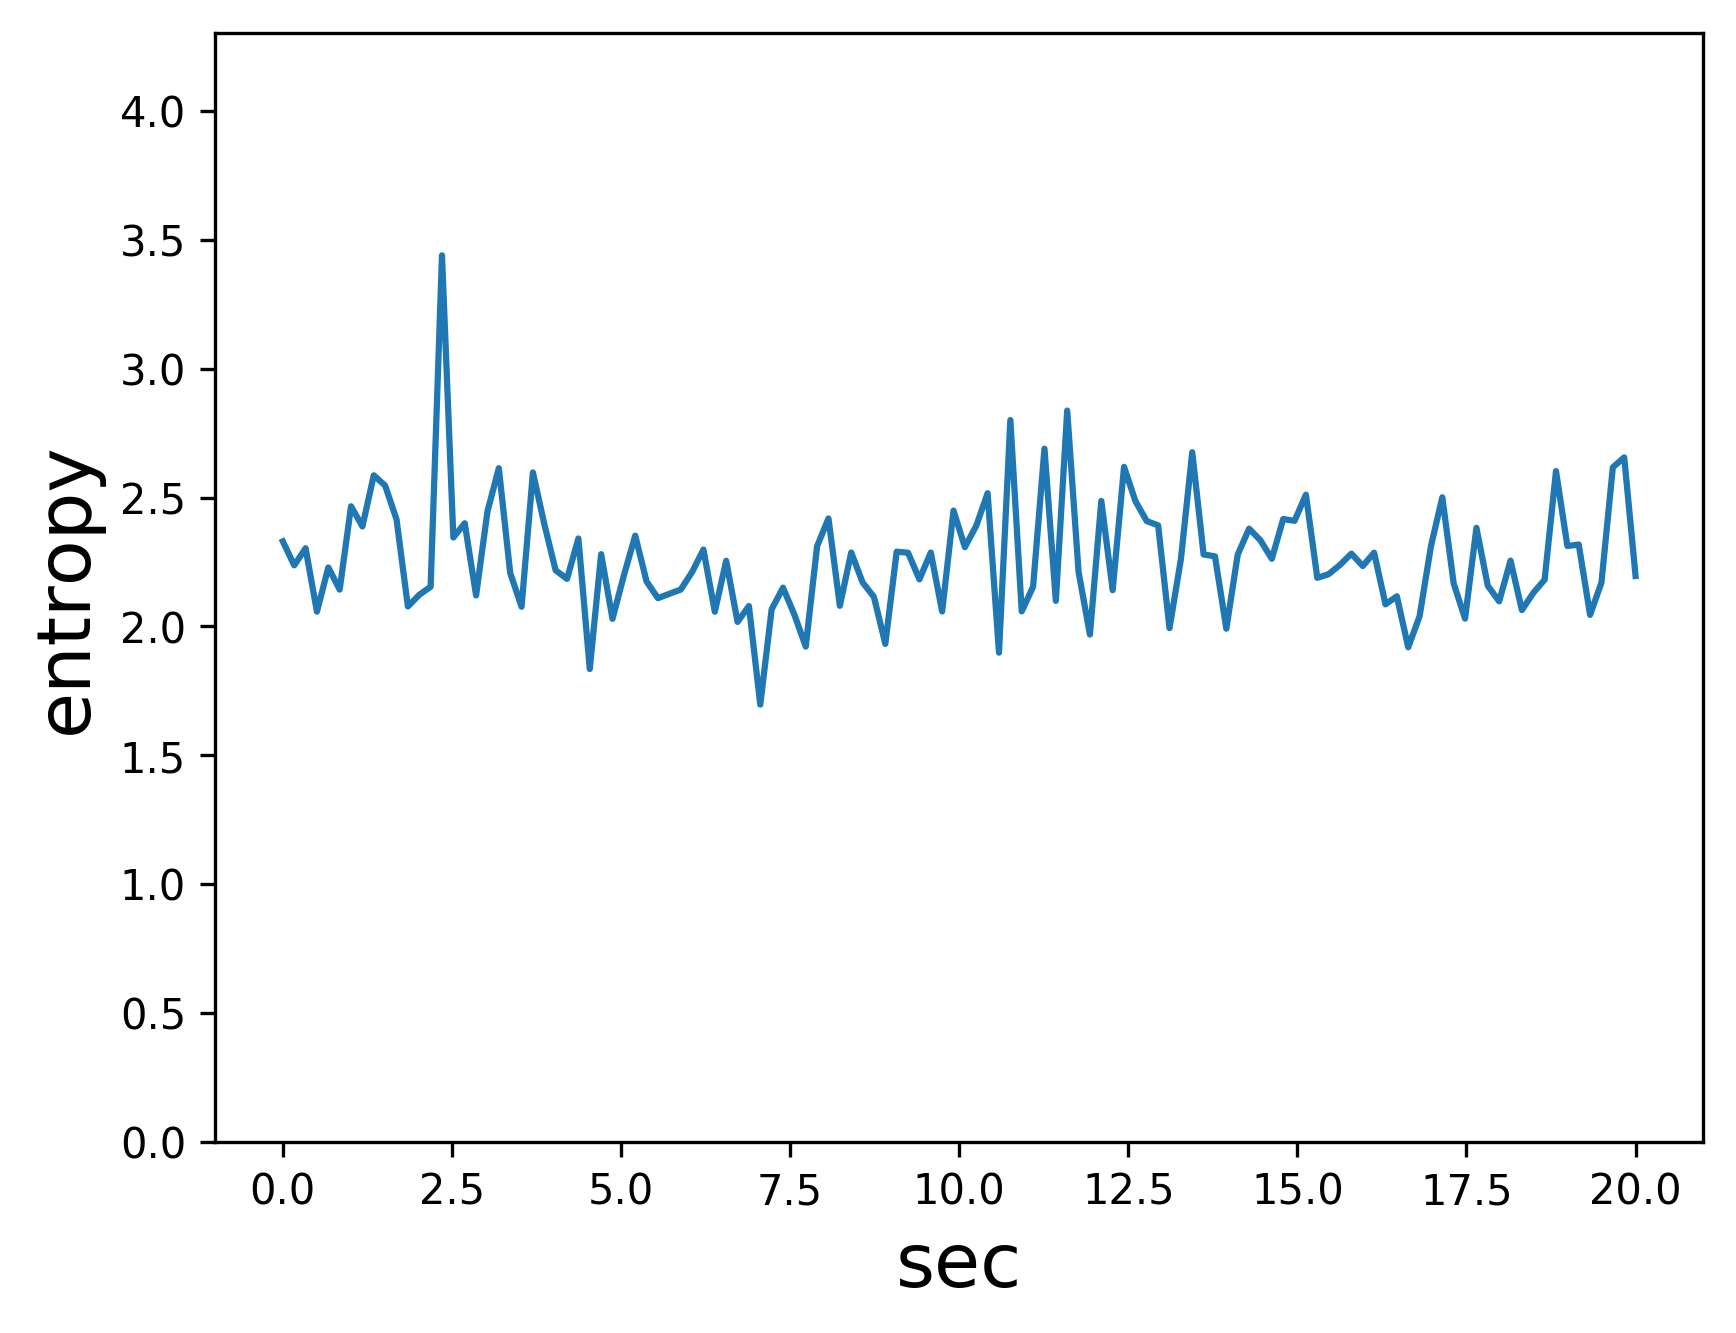
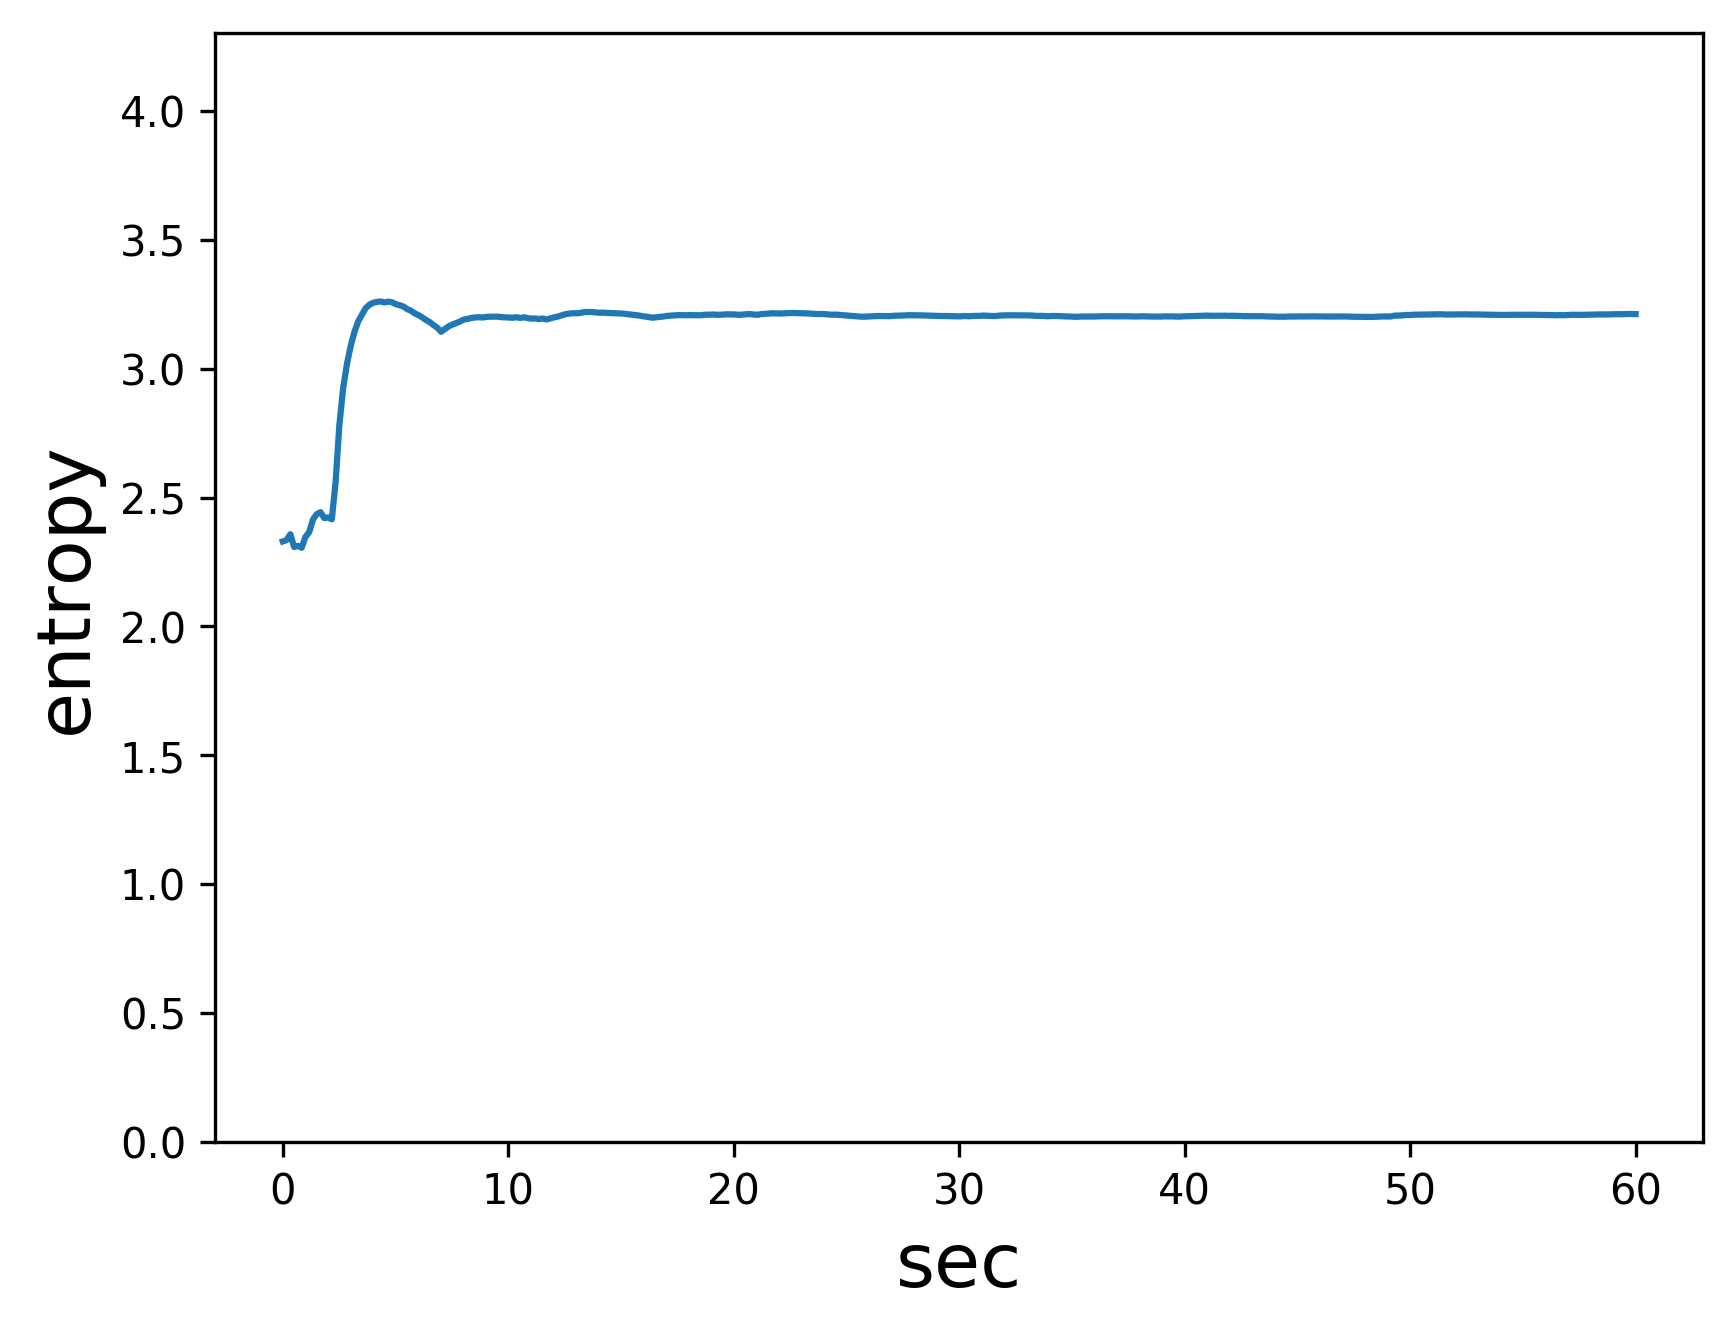
test

diff --git a/kullback_leibler_divergence.py b/kullback_leibler_divergence.py
@@ -109,7 +109,7 @@ def save_2d(data, name, xlabel, ylabel, directory, time):
     plt.clf()
     plt.xlabel(xlabel, fontsize = 18)
     plt.ylabel(ylabel, fontsize = 18)
-    
+    plt.ylim([0,4.3])
     if time:
         scale = int(np.ceil(float(len(data))/60))
         start = time[0] * scale
@@ -158,13 +158,21 @@ def to_difference_of_entropy(data):
 
 def to_entropy(data):
     res = []
+    
     for tmp in data:
         tmp = np.asarray(tmp)
         res.append(-np.sum(tmp[np.where(tmp > 0)[0]] * np.log2(tmp[np.where(tmp > 0)[0]])))
     return res
 
+def to_entropy_cumlative(data)
+    res = []
 
-
+    ent = 0
+    for tmp in data:
+        tmp = np.asarray(tmp)
+        ent += -np.sum(tmp[np.where(tmp > 0)[0]] * np.log2(tmp[np.where(tmp > 0)[0]]))
+        res.append(ent)
+    return res
 
 optflow_dist_list = load_video_data_dir()
 motion_prob_dist_list = load_motion_data_dir(is_compact = True)
@@ -177,12 +185,13 @@ kld_cumul_list = apply_on_dir(optflow_dist_list, motion_cumul_dist_list,
                               lambda x, y: (x[:-1:2], y))
 
 
-directory = SAVE_DIR + SAVE_GRAPH_OPTION + SAVE_OPT_ENT + SAVE_OPT_OPT
+directory = SAVE_DIR + SAVE_GRAPH_OPTION + SAVE_OPT_ENT + SAVE_OPT_OPT + SAVE_OPT_CUMUL
 save_fig_dir(optflow_dist_list,
-             to_difference_of_entropy,
-             save_graph + SAVE_OPT_DIF,
+             to_entropy_cumulative,
+             directory,
              'sec',
-             'entropy')
+             'entropy',
+             [0,60])
 
 save_graph = SAVE_DIR + SAVE_GRAPH_OPTION + SAVE_OPT_ENT + SAVE_OPT_MOT + SAVE_OPT_PROB
 save_fig_dir(kld_prob_list,
